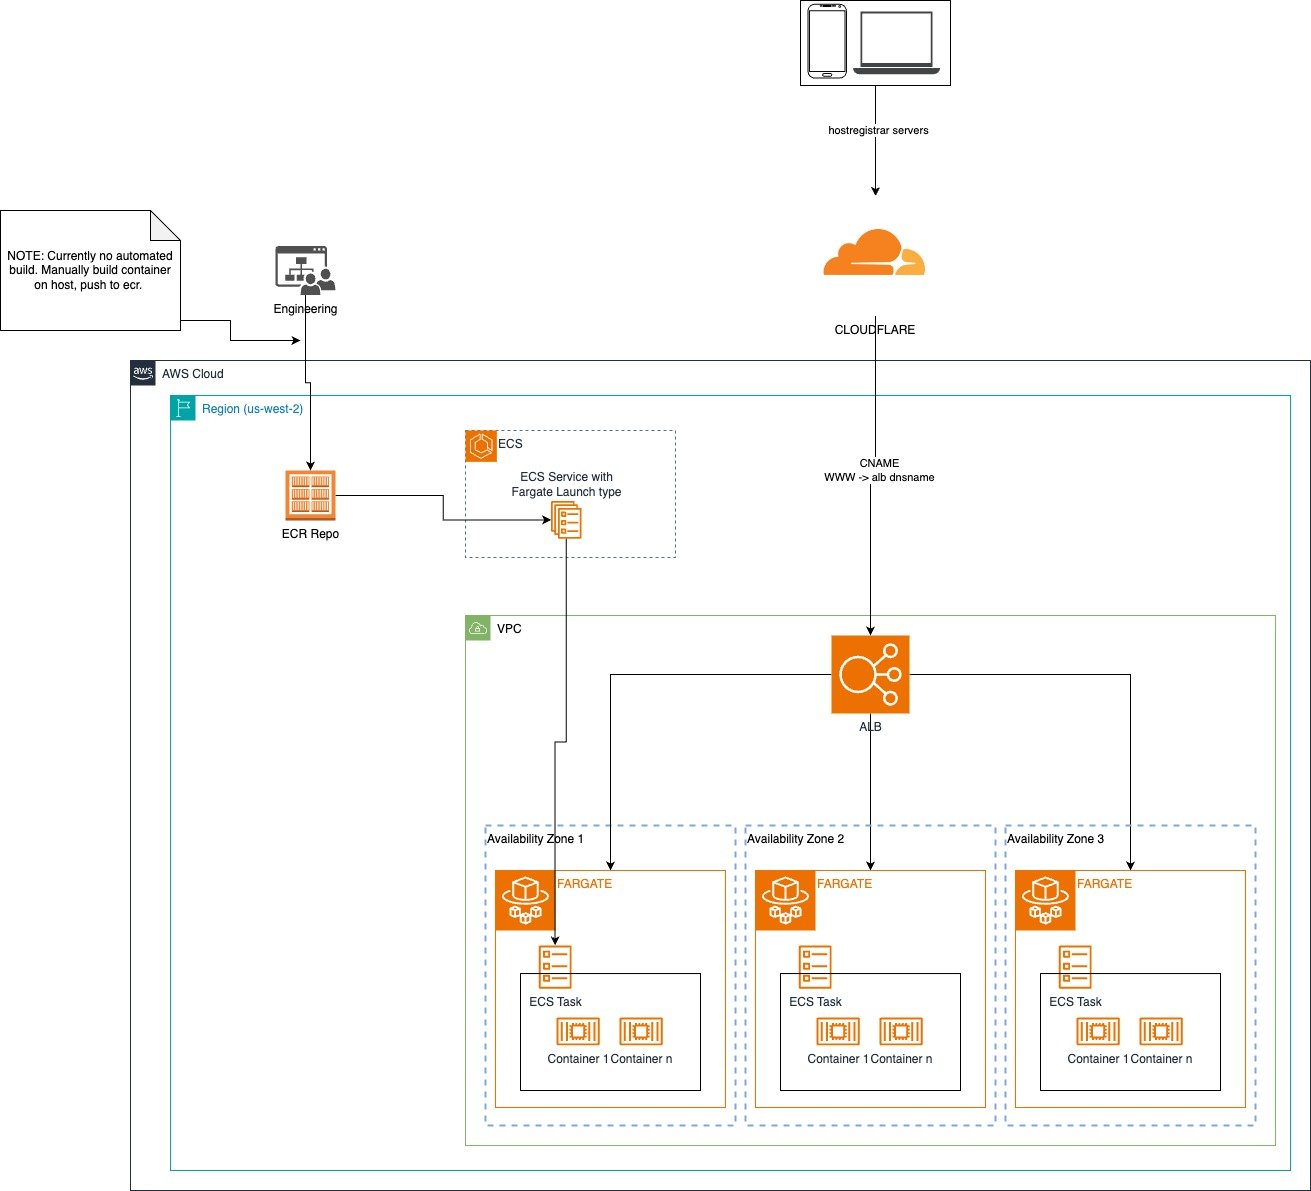
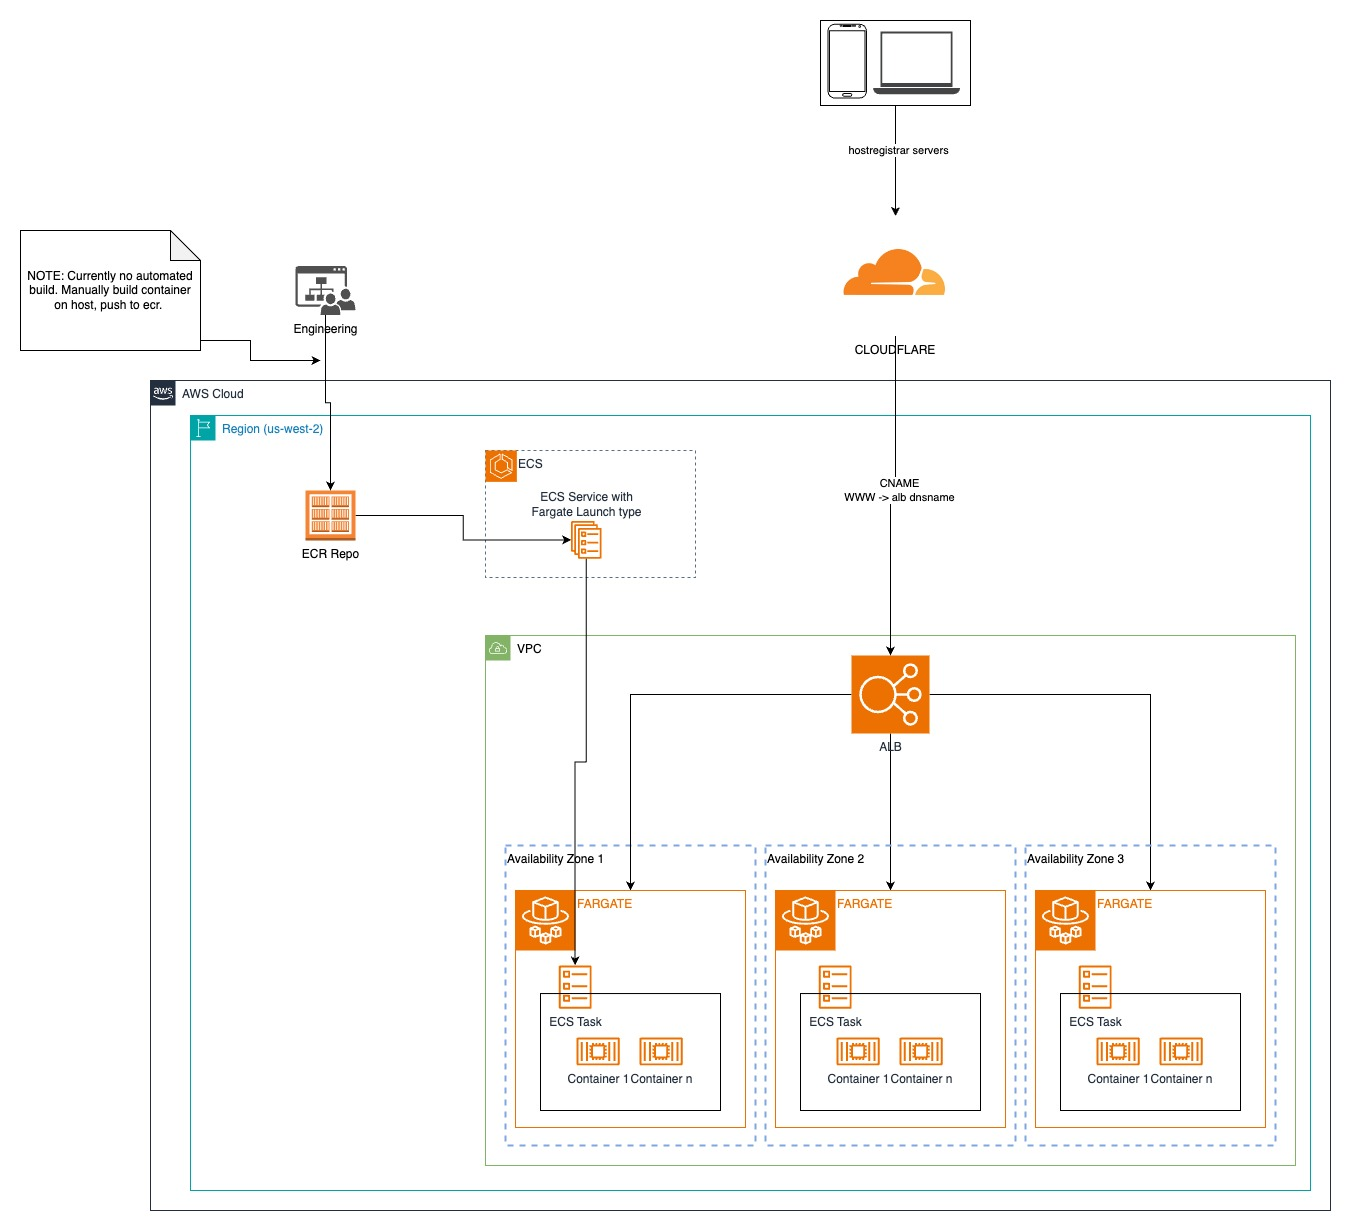
update arch image

diff --git a/README.md b/README.md
@@ -64,6 +64,9 @@ Layed out pretty well in the terraform.
 1. Application load balancer forwarding port 80 to it's target group
 1. DNS is configured by Cloudflare, pointing to the DNS name of the ALB.
 
+![Network diagram](https://github.com/brendanbeck62/brendanbeckcom/blob/master/docs/bbcom-architecture.jpg?raw=true)
+
+
 There are currently 2 workspaces configured, prod and test.
 The idea is that any infra changes occur in the test workspace for testing, and then once PRd into master the prod workspace can be caughtup.
 
